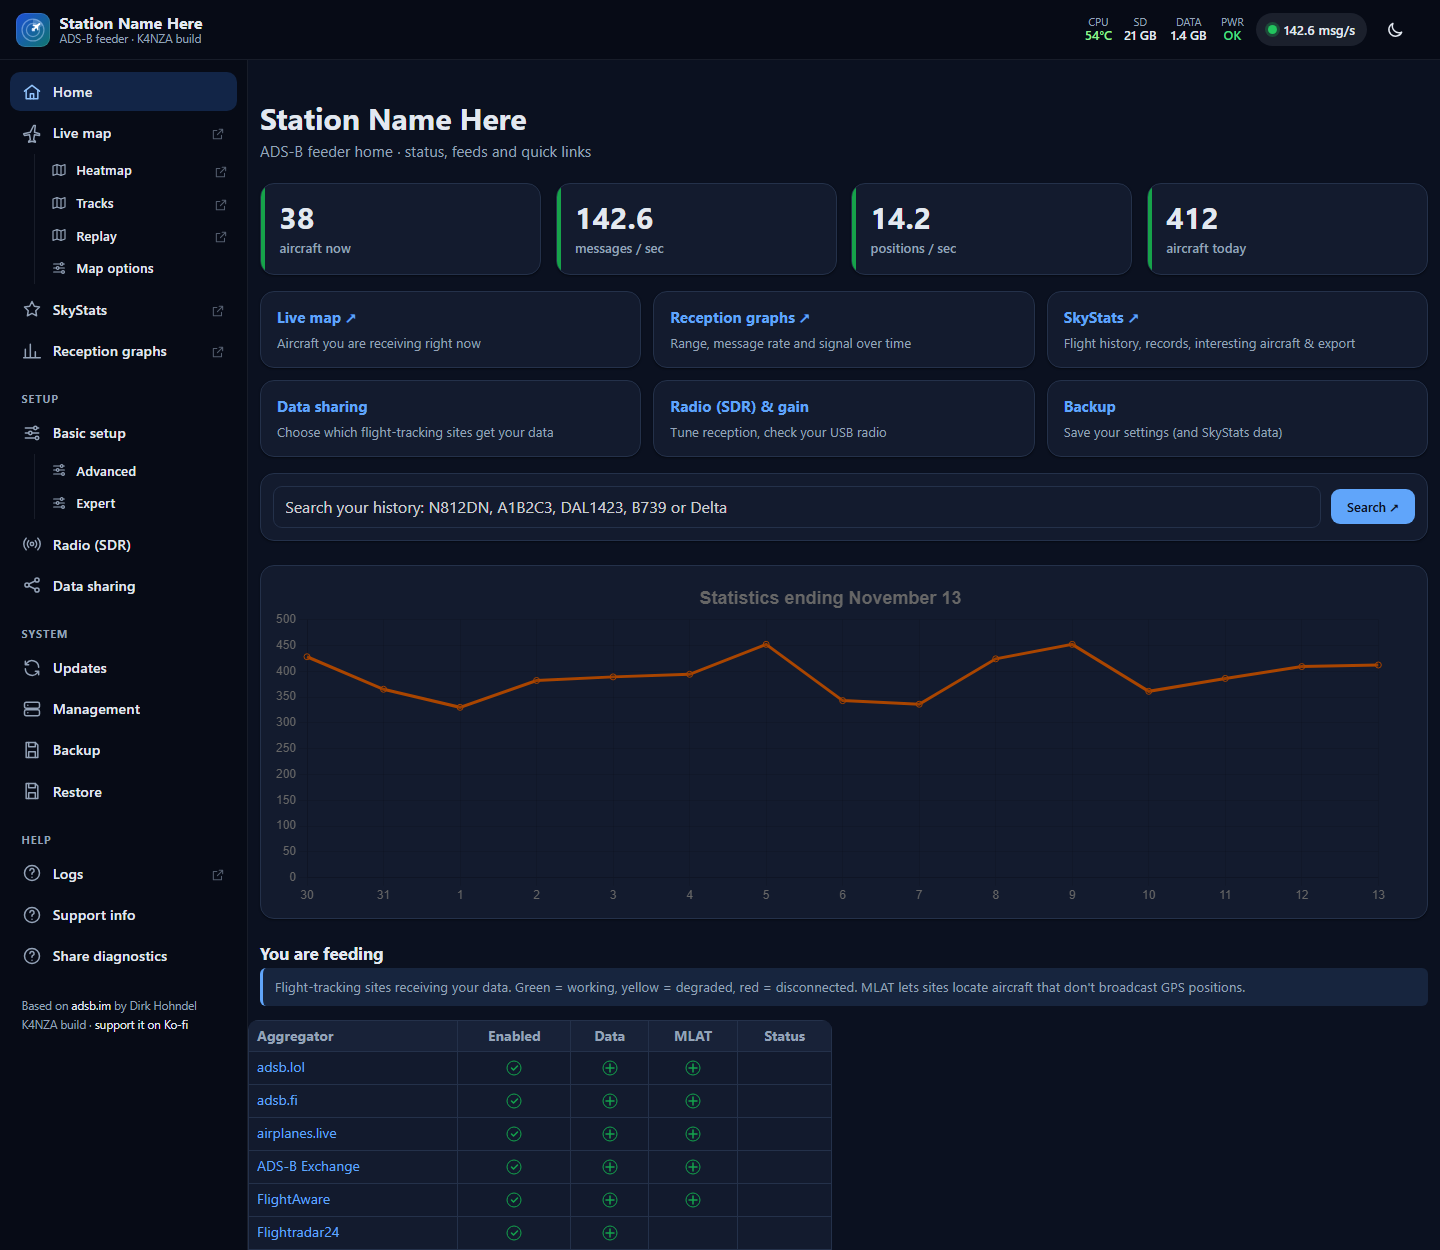
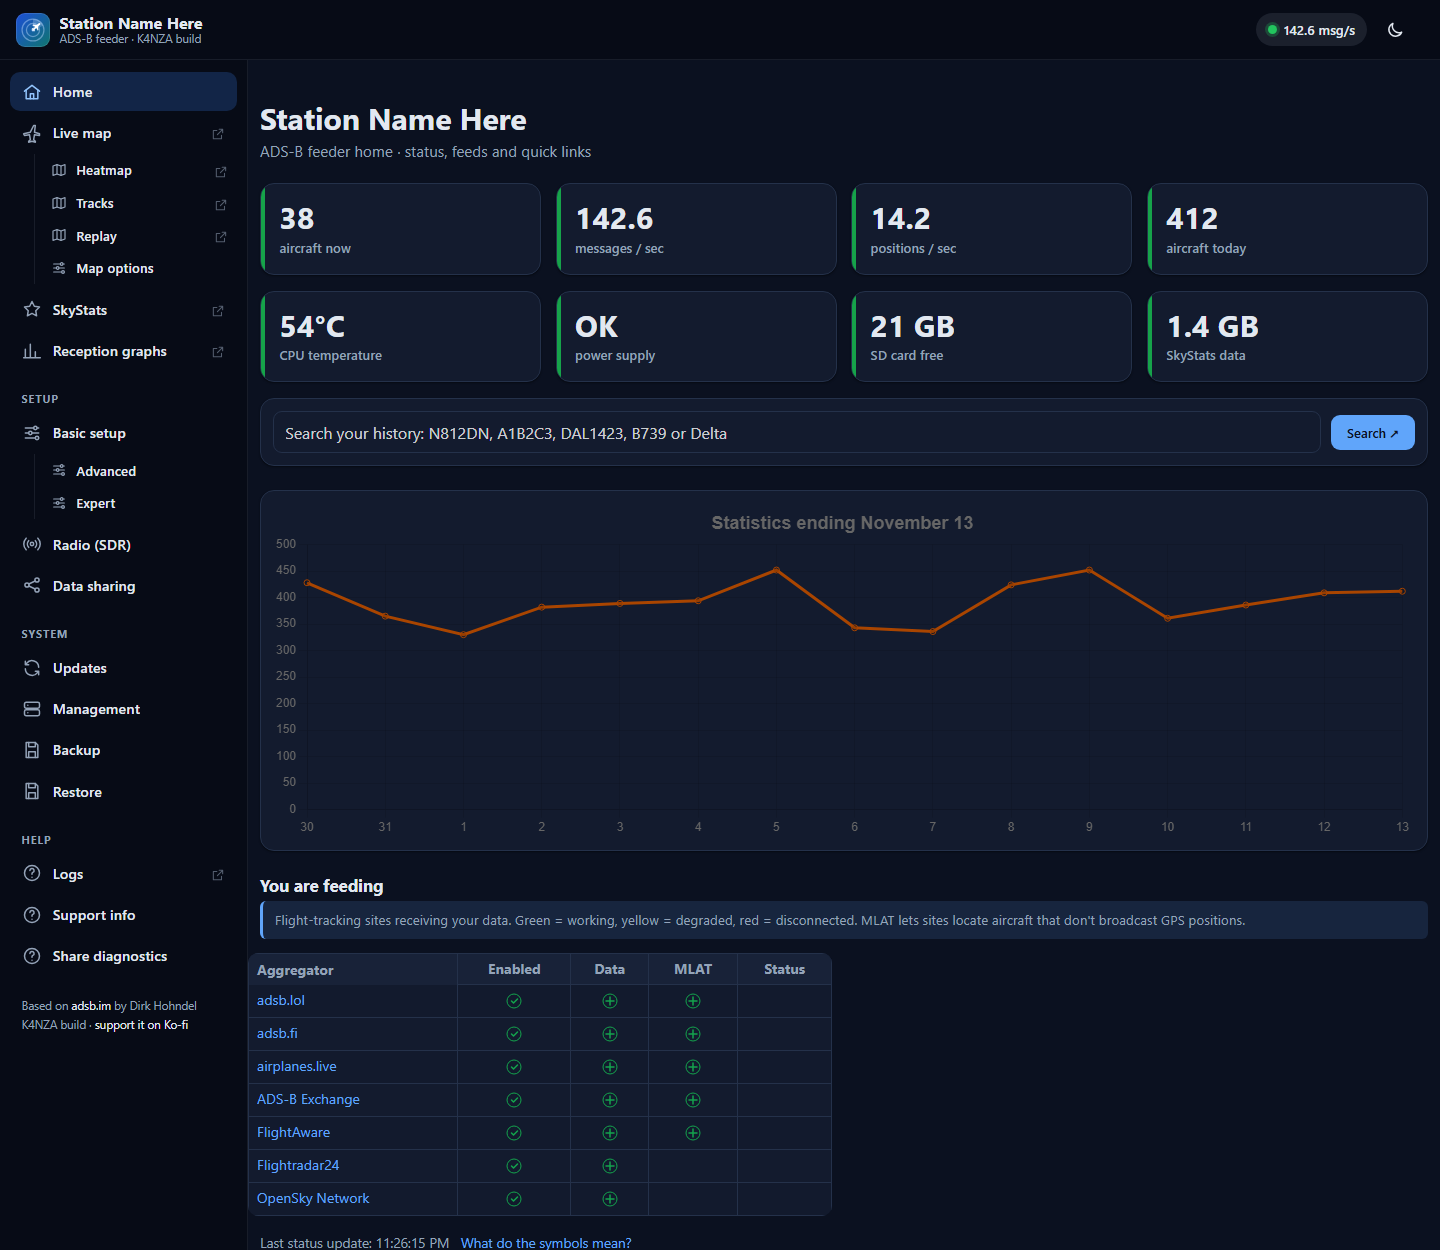
README, changelog and screenshots for the new Home page and search

diff --git a/README.md b/README.md
@@ -16,12 +16,12 @@ Compared with stock adsb.im v3.0.15:
 ### Redesigned interface
 
 - Dashboard layout: top bar with live receiver status, sidebar menu (bottom tabs on phones), light/dark mode.
-- **Pi health in the top bar**: CPU temperature, free SD card space, SkyStats history size (and its
-  growth per month) and the power supply. A reading turns amber or red with advice when something
-  needs attention.
-- Home page: status tiles (aircraft now, messages/sec, positions/sec, aircraft today), shortcuts,
-  full-width aircraft-per-day chart, a one-line update status, and cards for the sites you feed.
-  Days run from midnight in the feeder's time zone.
+- Home page: status tiles (aircraft now, messages/sec, positions/sec, aircraft today), an aircraft
+  search box, full-width aircraft-per-day chart, a one-line update status, and cards for the sites
+  you feed. Days run from midnight in the feeder's time zone.
+- **Pi health tiles** on Home: CPU temperature, power supply, free SD card space and SkyStats history
+  size (and its growth per month). A tile's edge turns amber or red, with advice in its tooltip, when
+  something needs attention.
 - Plain-English help under every settings section, tooltips on buttons, and confirmation before
   shutdown, reboot and similar actions.
 - Radio (SDR) page with a step-by-step guide to better reception.
@@ -48,6 +48,8 @@ Compared with stock adsb.im v3.0.15:
 - **Search** tab (or the search box on the feeder's Home page): find an aircraft by registration,
   hex code, callsign, type (for example `B739` or `C17`) or operator, and see every visit: when,
   callsign, route, closest distance, highest altitude and time in view. Download the visits as CSV.
+- Shows a photo of the aircraft from planespotters.net (credited to the photographer) and links to
+  FlightAware, so aircraft that are out of range can still be looked up.
 - SkyStats records how close each aircraft came (also in the Flights export).
 
 ### SkyStats: reception charts
@@ -108,8 +110,8 @@ Compared with stock adsb.im v3.0.15:
 
 ## Screenshots
 
-**Home dashboard**: live receiver status, Pi health in the top bar (CPU temperature, SD card space,
-SkyStats size, power supply), shortcuts, aircraft search, aircraft per day and the sites you feed.
+**Home dashboard**: live receiver status, Pi health tiles (CPU temperature, power supply, SD card space,
+SkyStats size), aircraft search, aircraft per day and the sites you feed.
 ![Home dashboard](docs/screenshots/home.png)
 
 **Live map**: modern panels, buttons with words instead of single letters, a tidy aircraft list and
@@ -132,7 +134,7 @@ is blocked), and signal strength against distance for tuning gain. *(Sample data
   <tr>
     <td valign="top" width="60%"><b>SkyStats export</b>: download everything as a ZIP, or one dataset at a time as CSV for Excel or Google Sheets, with an optional date range.<br><br>
       <img src="docs/screenshots/skystats-export.jpg" alt="SkyStats export" width="100%"></td>
-    <td valign="top" width="40%"><b>On a phone</b>: bottom tabs, a slide-in menu and the key readings in the top bar.<br><br>
+    <td valign="top" width="40%"><b>On a phone</b>: bottom tabs, a slide-in menu and the status tiles.<br><br>
       <img src="docs/screenshots/phone.jpg" alt="Home page on a phone" width="100%"></td>
   </tr>
 </table>
@@ -174,7 +176,7 @@ The menu on the left (or the **Menu** tab on a phone) has everything:
 
 | Page | What it's for |
 |---|---|
-| **Home** | Receiver status: aircraft now, messages per second, aircraft today, update status |
+| **Home** | Receiver status, Pi health, aircraft search, aircraft per day, update status |
 | **Live map** | The aircraft you're receiving right now; Heatmap, Tracks and Replay are just below it |
 | **SkyStats** | Flight history, routes, records, interesting aircraft, **Search**, **Export** |
 | **Reception graphs** | How well your station is doing over hours, days and months |

diff --git a/CHANGELOG.md b/CHANGELOG.md
@@ -3,6 +3,23 @@
 What changed in each K4NZA ADS-B Feeder release. The newest release is at the top.
 The feeder's **Updates** page shows the newest entry as "What's new".
 
+## v3.0.15-21 (not released yet)
+
+**Changed**
+- Home: the Pi health readings (CPU temperature, power supply, SD card space and SkyStats history)
+  moved from the top bar to a row of tiles under the receiver tiles. Each tile's edge turns green,
+  amber or red, with advice in its tooltip. The top bar keeps the message-rate indicator.
+- Home: the six shortcut buttons are gone (the same links are always in the menu), and the aircraft
+  search box moved up in their place.
+- The aircraft search box on Home stays in place after a search, ready for the next one.
+- SkyStats search shows a photo of the aircraft from planespotters.net, credited to the photographer.
+- SkyStats search links to FlightAware instead of the live map, so aircraft that are out of range
+  can still be looked up.
+
+**Fixed**
+- The day numbers under the aircraft-per-day chart on Home could repeat a day around a
+  daylight-saving change.
+
 ## v3.0.15-20 (2026-11-13)
 
 The start of the public change log: from this release on, every change is its own commit
